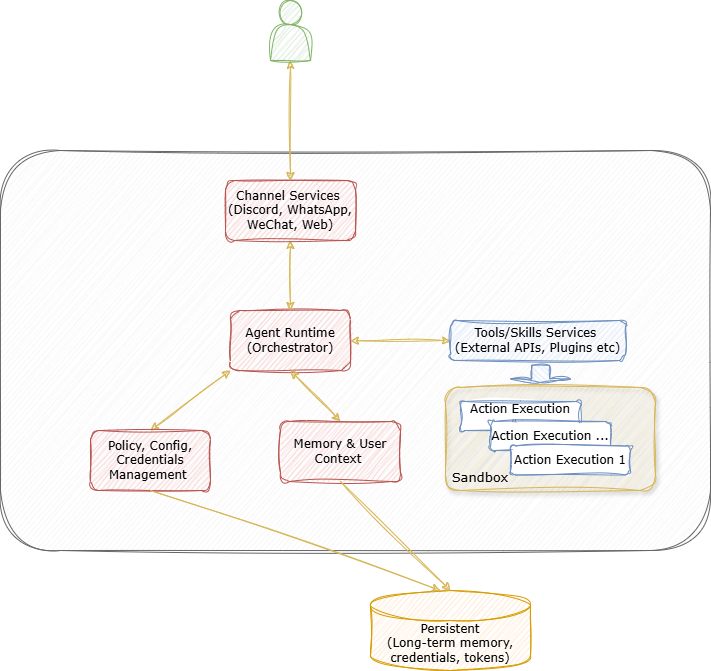
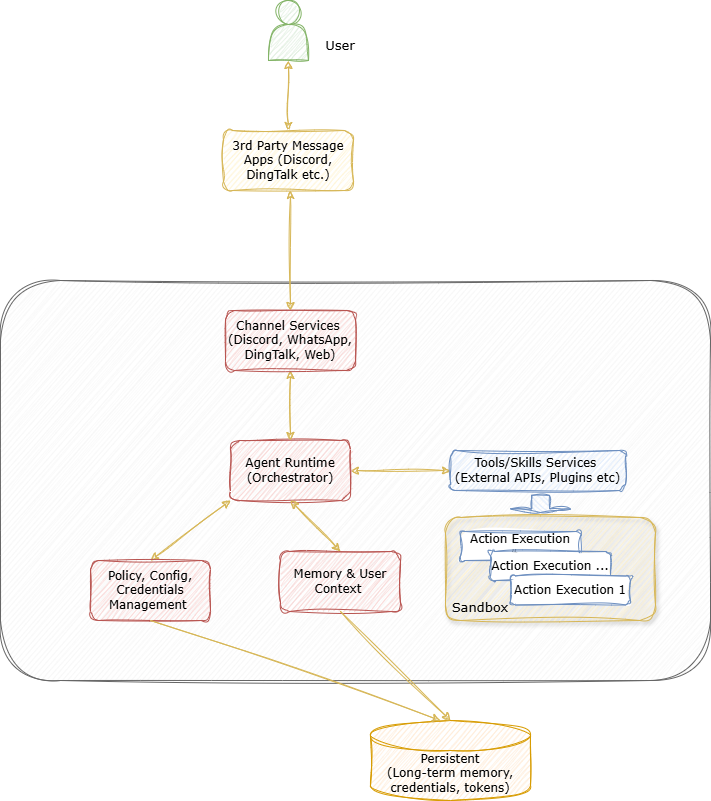
Update diagram and readme
Update diagram and readme

diff --git a/cczoo/openclaw-cc/README_CN.md b/cczoo/openclaw-cc/README_CN.md
@@ -2,83 +2,84 @@
   <a href="./README.md">English</a>
 </div>
 
-# OpenClaw-CC 机密计算部署演示方案
+# OpenClaw-CC 机密计算部署演示方案 （rev-0.6）
 
 云端部署的AI智能体(Agent)与传统的"一次性"AI 工作负载存在本质差异：它们需要持续运行，接入多种用户交互通道（如 Discord、WhatsApp、微信或 Web 应用），动态调用各类工具或技能，并需要维护用户上下文、长期记忆以及知识库，包括敏感的用户私有数据，如访问各种服务或账号所需的用户令牌或证书凭证。这种运行模式不仅大幅拓宽了攻击面，也使高价值数据在智能体的运行时（即数据使用阶段）长期存在于内存、缓存甚至是磁盘中，显著增加了潜在泄露风险。
 
 机密计算在这种场景下价值凸显：它能够在硬件层面构建强隔离环境保护运行时数据，使其免受来自宿主操作系统、虚拟机管理程序及云服务管理员等基础设施层的威胁。通过在硬件隔离的可信执行环境（TEE）中运行智能体的各个关键组件，敏感数据得以与宿主环境实现物理隔离，从而显著增强整体安全性。
 
-本文档以OpenClaw为例介绍典型的AI智能体的架构与数据安全威胁模型，阐明以Intel TDX为代表的机密虚拟化能力如何有效缓解数据安全风险，并提供针对智能体使用场景的数据安全和隐私保护方案。虽然本示例基于开源AI智能体框架OpenClaw，该框架负责协调用户、语言模型、工具调用及长期记忆之间的交互，但本文所述的数据安全原则以及保护方案同样适用于其他具有类似架构特征的智能体框架。
+本案例以 OpenClaw 为例，介绍典型 AI 智能体的架构及其面临的数据安全威胁模型，阐明以 Intel TDX 为代表的机密虚拟化技术如何通过运行时隔离与加密保护，有效降低数据泄露与越权访问等安全风险，并进一步提出面向智能体应用场景的数据安全与隐私保护方案。尽管本示例基于开源 AI 智能体框架 OpenClaw（该框架负责协调用户、语言模型、工具调用与长期记忆之间的交互），但本文所总结的数据安全原则与防护思路同样适用于其他具有类似架构特征的智能体框架。 
 
-## 1. OpenClaw概述及数据安全威胁模型
+## 1. OpenClaw及数据安全
 
 
 OpenClaw 是一款个人 AI 助手，既可以本地运行，也可以部署在云端。实际上，当今主流的智能体通常选择云端部署，以提供全天候24×7的服务可用性，并实现与各种基于互联网的服务（如 WhatsApp、Discord、微信和 Web API）的无缝集成。作为一个自主智能体，OpenClaw 通过监控集成的消息通道来实时接收用户请求，协调大语言模型进行推理与任务规划，并调用各类工具和服务完成需要的任务，从而实现用户与下游系统之间的智能连接。
 
-### 1.1 架构和数据流
+### 1.1 OpenClaw架构和数据流
 
 ![OpenClaw Architecture](./images/openclaw-arch.png)
 
 1. 用户通过配置好的消息服务与OpenClaw交互，服务将消息转发给OpenClaw网关运行时，即协调器(Orchestrator)。
 
-2. 协调器负责维护会话状态、检查并应用相应的控制和安全策略，协调调用大模型服务进行推理。必要时，它会从长短记忆(Memory)服务中检索和更新长期上下文，随后基于配置的策略或者是访问证书令牌来调用内部或者外部工具技能服务。
+2. 协调器负责维护会话状态、检查并应用相应的控制和安全策略，协调调用大模型服务进行推理。必要时，它将与长短期记忆(Memory)服务交互，以检索和更新上下文，并在此基础上根据配置策略或者是访问令牌来调用内部或外部工具或者技能服务。
 
 3. 用户交互过程的上下文和对话历史也可以持久化存储为长期记忆，从而实现跨会话的连续性和个性化体验。
 
-在 OpenClaw 工作流中，智能体运行时会持续处理并保留敏感上下文信息，包括用户会话历史、决策信息、企业文档、检索到的知识片段以及外部系统返回的数据。这些长期存在的上下文知识和数据资产会在后续工作流中被反复使用，因此，一旦智能体运行时遭受攻击被突破，其信息泄露的影响远超传统的单次请求式 AI 服务。同时，可插拔（pluggable）的服务架构使敏感用户交互数据、上下文知识以及模型权重也成为高价值攻击目标。尤其在云环境中，多租户部署模式进一步扩大了风险：云端智能体会面临来自高权限云基础软件层的威胁，还可能受到平台访问策略配置不当的影响，同时长期保留的各类数据（如记忆转储、日志文件、配置文件、运维脚本及备份）也大大增加了潜在的数据安全风险。
+在 OpenClaw 工作流中，智能体运行时会持续处理并保留上下文信息，包括用户会话历史、决策信息、企业文档、检索到的知识片段以及外部系统返回的数据，这些内容可能会涉及企业的商业机密或者用户的隐私信息。由于这些跨事务存在的上下文知识与数据资产会在后续工作流中被反复调用与引用，一旦智能体运行时遭受攻击并被突破，其潜在的信息泄露影响将显著高于传统的单次请求式 AI 服务。同时，可插拔（pluggable）的服务架构使敏感用户交互数据、上下文知识以及模型权重也成为高价值攻击目标。尤其在云环境中，多租户部署模式进一步扩大了风险：云端智能体会面临来自高权限云基础软件层的威胁，还可能受到平台访问策略配置不当的影响，同时长期保留的各类数据（如记忆转储、日志文件、配置文件、运维脚本及备份）也大大增加了潜在的数据安全风险。
 
-随着 OpenClaw 及类似的智能体框架向云端迁移，基于传统虚拟化基础设施的部署模式大大放大了智能体运行时数据泄露的风险，导致暴露用户会话上下文中敏感数据和状态。即使传输过程使用TLS，存储过程使用加密机制，但是来自更高权限的宿主操作系统或虚拟机管理程序级别的攻击者仍可能访问智能体运行时的内存数据，从而获取会话信息、推理决策过程的中间状态和访问各种服务API凭证信息。动态工具或服务调用的机制进一步加剧风险，因为工作流中服务或工具可以进一步被诱导或者控制其路径来执行未经授权的有害操作。
+同时，智能体采用的可插拔（pluggable）服务架构在提升灵活性与扩展性的同时，也显著扩大了系统的攻击面。智能体在运行过程中需要在模型推理、记忆管理与工具调用之间持续传递上下文信息，使得敏感的用户交互数据、长期知识资产以及访问凭证可能在多个模块与插件之间共享与流转。由于插件与外部服务调用组件通常来自不同的组织，缺乏统一的软件信任链条，使得智能体的信任边界复杂且分散。一旦某个工具接口或集成组件存在漏洞，攻击者可能借此侵入智能体运行时环境，并进一步获取或滥用智能体在处理过程中所管理的高价值数据资产，从而带来严重的数据安全风险。
 
-传统的沙箱机制(Sandbox)，无论是轻量级容器隔离或还是虚拟机隔离，都主要用于缓解进程间或租户之间的威胁。在复杂的云环境中，这类有限的隔离手段对突破平台防护、获得特权的攻击者（如被突破的虚拟机管理程序或云运营环境）提供的防护非常有限，无法有效保证今天各种AI智能体运行时及其敏感数据在整个生命周期内的安全需求。
+随着 OpenClaw 及类似的智能体应用向云端迁移，基于传统虚拟化基础设施的部署模式显著放大了智能体运行时数据泄露的风险，增加了用户会话上下文中敏感数据和状态被暴露的可能性。即使传输过程使用TLS，存储过程使用加密机制，攻击者仍然能够通过高权限宿主操作系统或虚拟机管理程序来非法访问智能体运行时内存，从而获取会话信息、推理过程的中间状态及各类服务和工具访问凭证信息；动态工具或服务调用的机制进一步加剧风险，工作流中服务或工具可能被诱导或者控制其代码路径，执行未经授权的有害操作。
 
-要为AI智能体提供有效的数据与安全保护，必须覆盖整个推理—记忆—检索—执行管道。其中，运行时数据（data-in-use）的机密性仍然是云化部署场景下最关键的挑战。智能体的长期记忆与持续学习能力赋予了机器系统持续知识积累和自我进化的能力，也显著增加了数据治理、所有权管理及安全删除的难度，尤其在当前广泛缺乏强运行时隔离的多租户环境中尤为突出。实现可信安全的智能体执行，需要依靠硬件强隔离、远程证明以及全生命周期的数据管理等多种能力，以弥补传统沙箱式的运行时场景下的安全空白。
+传统的沙箱机制(Sandbox)，无论是轻量级容器隔离或还是虚拟机隔离，都主要用于缓解进程间或租户之间的威胁。在复杂的云环境中，这类有限的隔离手段对突破平台防护、获得特权的攻击者（如被突破的虚拟机管理程序或云运营环境）提供的防护非常有限，无法有效满足当今AI智能体运行时及其敏感数据在整个生命周期内的安全需求。
 
-### 1.2 Threat areas
+要为AI智能体提供有效的数据与安全保护，必须覆盖整个推理—记忆—检索—执行管道。其中，运行时数据（data-in-use）的机密性仍然是云化部署场景下最关键的挑战。智能体的长期记忆与持续学习能力赋予了系统持续知识积累和自我进化的能力，但也显著增加了数据治理、所有权及生命周期管理的难度，尤其在当前广泛缺乏强运行时隔离的多租户环境中尤为突出。实现可信安全的智能体执行，需要综合利用基于硬件强隔离、内存加密、远程证明以及全生命周期的数据管理等多种能力，以弥补传统沙箱机制在运行时数据机密性与完整性保护上的不足。
 
-- **运行时上下文（Data-in-use）**：具有特权权限的基础设施访问风险（内存嗅探/调试）、Prompt 或工具注入，以及多租户/会话间数据泄露。
+### 1.2 数据安全威胁
 
-- **长期记忆（Data-at-rest）**：记忆存储可能成为高价值数据湖；生产数据被用于离线评估、Prompt 调优或训练，增加了暴露风险，并使数据使用的合规和授权更加复杂。
+- **运行时上下文（Data-in-use）**：面临高权限基础设施访问风险（如内存嗅探或调试）、Prompt 或工具注入，以及多租户或会话间的敏感数据泄露。运行时数据的持续使用增加了泄露或篡改的可能性，对数据机密性和完整性提出了更高要求。
 
-- **密钥与权限**：各种服务访问凭证的泄露风险（API 密钥、OAuth 令牌、Cookies），以及插件或供应链风险可能引入新的数据外泄路径。
+- **长期记忆（Data-at-rest）**：记忆存储可能成为高价值数据湖；生产数据被用于评估、Prompt 调优或持续训练，增加了暴露风险，并使数据使用的合规使用和授权管理的流程更加复杂。
 
-- **云特有威胁面**：元数据/控制平面暴露风险，来自于传统共享式云基础设施风险（内存、I/O、存储与网络），以及主机操作系统或虚拟机控制器层面的攻击。
+- **密钥与权限 (Data-in-use)**：AI智能体在调用内部或外部服务时依赖各类访问凭证（如 API 密钥、OAuth 令牌、Cookies），这些凭证一旦泄露或被滥用，造成跨服务的数据访问风险。
+
+- **软件和服务供应链 (Integrity)**：复杂的插件和服务供应链生态可能引入新的攻击面。第三方插件、工具库或外部服务在未经严格审查或安全验证的情况下接入智能体系统，可能成为数据外泄或权限滥用的潜在通道。
 
 ## 2. 机密计算的应用以及数据安全增强
 
-### 2.1 机密计算
+### 2.1 Intel TDX（可信域扩展技术）与智能体的数据安全
 
-智能体风险集中在数据在使用中：运行时上下文、工具调用参数/结果、中间状态、记忆检索输出以及凭证在编排过程中短暂以明文形式出现。机密计算（可信执行环境，TEE）将敏感执行和数据置于硬件强制隔离内，即使是云管理员、宿主操作系统和虚拟机管理程序也无法直接读取隔离区内的明文。
+智能体在云端运行时的数据安全风险主要集中在数据使用阶段（Data-in-use），包括运行时上下文、工具调用参数与结果、推理决策的中间状态、持续长记忆，以及各种访问凭证在工作流编排过程中的反复访问。为应对这些风险，Intel TDX 提供了一整套机密计算能力，将智能体的敏感执行和数据处理置于硬件强制隔离的可信执行环境中。通过硬件级隔离，即便宿主操作系统或虚拟机管理程序遭到入侵，也无法直接访问隔离区内的明文数据；内存加密机制确保用户数据在多租户环境下始终保持密态隔离，即便内存被整个导出，也能保障数据的机密性。
 
-通过远程证明，上游服务（例如消息通道和密钥管理系统）可以在释放敏感数据（如会话密钥或数据访问令牌）之前验证工作负载运行环境的身份和策略以及相应的指纹信息。
+结合 TDX 的远程证明机制，上下游服务组件（如消息通道、密钥管理系统或外部 API 提供方）在释放敏感数据（如会话密钥或访问令牌）之前，可验证智能体工作负载的运行环境、执行策略及指纹信息，确保数据仅在受信的软硬件执行环境中被访问和使用。此外，TDX 提供的动态度量能力，使智能体中插件式的工具和服务执行组件能够进行动态加载时的完整性检查与细粒度控制，确保所有组件在执行过程中遵循安全策略。
+
+通过硬件隔离、内存加密、远程证明和动态度量的组合，Intel TDX 为复杂、多插件的智能体工作流提供了可扩展、全生命周期的硬件保障，使敏感数据在运行时、传输和存储过程中均受到严格保护，实现对智能体云端运行时数据安全的全面可信保障。
 
 ### 2.2 OpenClaw 机密计算部署方案 (OpenClaw-CC)
 
-为缓解多租户云环境中来自特权级别的基础设施的威胁，OpenClaw 运行时可以部署在硬件隔离的可信执行环境（TEE）中，例如基于TDX的机密虚拟机（TDVM）。这确保了即便是宿主操作系统、虚拟机管理程序被安全突破甚至是云服务运维的账号泄露引起的攻击，也无法直接访问智能体运行时内存中的用户明文信息。通过将编排逻辑、策略执行和内存处理隔离在可信执行环境中，OpenClaw-CC 在整个推理—检索—执行管道中实现了强数据机密性的保障能力，弥补了传统虚拟机或容器隔离留下的安全空白。
+为缓解多租户云环境中来自特权级别的基础设施的威胁，OpenClaw 运行时可以部署在硬件隔离的可信执行环境（TEE）中，如基于TDX的机密虚拟机（TDVM）。确保了即便宿主机操作系统或虚拟机管理程序被突破，甚至因运维账号泄露引发攻击，也无法直接访问智能体运行时内存中的用户数据。通过将智能体运行时的编排逻辑、策略执行和上下文处理全部隔离在可信执行环境中，OpenClaw-CC 能在整个推理—检索—执行管道中实现强数据机密性保护，有效弥补了传统虚拟机或容器隔离在运行时数据安全方面的不足。
 
-![OpenClaw-CC Architecture](./images/openclaw-cc.png)
+
+![OpenClaw-CC Architecture](./images/openclaw-cc-cn.png)
 
 此外，OpenClaw-CC 可利用远程证明（Remote Attestation）的机制，在释放敏感数据访问之前对运行时的身份和策略进行验证，构建实时的信任关系。各种上游的服务组件，例如消息服务、模型服务以及密钥/令牌代理管理服务，也可以在动态验证OpenClaw-CC运行时是否在可信执行环境中运行，并且确保度量信息符合安全预期。
 
-持久化存储的信息则通过静态加密（例如基于 LUKS 的加密磁盘）进行保护，且加密密钥由机密虚拟机内部管理，同时在用户数据盘挂载时通过远程证明机制来验证存储系统的安全和完整。
+持久化存储的用户记忆和上下文状态则通过静态加密（例如基于 LUKS 的加密磁盘）进行落盘保护，且加密密钥由机密虚拟机内部管理，同时在用户数据盘挂载时通过远程证明机制来验证存储系统的安全和完整。
 
-结合基于 TDX 的可信执行环境隔离技术、远程证明机制以及加密的数据持久化能力，OpenClaw-CC 构建了端到端的机密计算架构，有效防止运行时数据泄露，并显著增强了系统抵御特权面的攻击的能力。
+综合利用 Intel TDX 提供的可信执行环境(TEE)、内存加密、远程证明机制等能力，OpenClaw-CC 构建了端到端的机密计算架构，有效防止运行时数据泄露的风险，并显著增强了系统在各层面抵御针对数据的攻击能力。
 
-### 2.3 Mitigations
+### 2.3 数据安全应对措施
 
-这一小节重点说明了基于 Intel TDX 的 TEE 如何在数据处理过程中降低AI智能体运行过程来自数据面的威胁风险。
+这一小节重点说明了基于 Intel TDX 如何在数据处理过程中降低AI智能体运行过程来自数据面的威胁风险。
 
-| 风险领域                           | 问题示例                 | Intel TDX 优势                       |
-| ------------------------------ | -------------------- | ---------------------------------- |
-| 运行时（Runtime）                   | 内存检查、运行时数据泄露         | 在 TEE 内运行核心进程；内存数据保持加密；对运行时完整性进行证明 |
-| 长期记忆（Long-term memory）         | 备份中残留数据；数据恢复时可能暴露    | 对内存加密；仅在 TEE 内解密；验证运行时完整性          |
-| 密钥与权限（Secrets & permissions）   | API 密钥/令牌/Cookie 被窃取 | 密钥仅在 TEE 内使用；通过远程证明控制密钥下发          |
-| Prompt/工具误用                    | 意外调用工具或返回不安全结果       | 通过 TEE 保护敏感中间数据，防止宿主访问             |
-| 插件与供应链（Plugins & supply chain） | 恶意或存在漏洞的扩展           | 验证运行时及插件完整性                        |
+| 风险领域                                      | 问题示例                        | Intel TDX 优势                                            |
+| ----------------------------------------- | --------------------------- | ------------------------------------------------------- |
+| **运行时**            | 内存检查、运行时上下文或中间状态泄露          | 核心进程和服务在基于 TDX 的可信执行环境（TEE）中运行；内存数据始终加密；支持运行时完整性验证与动态度量 |
+| **长期记忆** | 长期记忆数据及用户上下文落盘或传输时可能泄露      | 数据在存储和传输过程中加密，仅在 TEE 内解密使用；结合远程证明管理敏感数据访问               |
+| **密钥与权限**          | API 密钥、OAuth 令牌或 Cookie 被窃取 | 密钥和凭证仅在 TEE 内使用；通过远程证明机制控制密钥下发，确保仅在可信环境中访问              |
+| **插件式工具与服务供应链**   | 恶意或存在漏洞的插件、扩展或第三方服务         | 动态验证运行时及插件完整性；结合远程证明和动态度量降低供应链风险                   |
 
-
-
-基于 Intel TDX 的 TEE 能显著降低运行时数据在特权基础设施下的暴露风险。除了数据在用保护之外，辅助性的工程措施仍然非常重要，例如最小权限控制、工具/策略白名单等，但这些内容超出本文讨论范围。
-
+尽管 Intel TDX 构建的可信执行环境（TEE）能够显著降低智能体运行时数据的泄露风险，但是传统的安全防护措施仍然不可或缺，例如最小权限控制、工具和策略白名单等，这些措施的具体实施超出了本文的讨论范围。
 
 ## 3. OpenClaw-CC 方案部署
 
@@ -263,7 +264,7 @@ curl -k -X POST http://<machine_ip>:8080/attestation \
 
 ## 4. 结论和未来工作
 
-OpenClaw-CC 展示了一种稳健的机密计算方案，通过基于 TDX 的 TEE 与远程证明技术，降低了在多租户基础设施上部署 OpenClaw 时的风险。借助这些技术，OpenClaw-CC 在整个架构中增强了数据保护能力，从运行时上下文到长期记忆管理都得以覆盖。该演示方案展示了这些原理的实际应用，为希望采纳机密计算实践的组织或个人提供了有价值的参考。
+OpenClaw-CC 展示了如何通过基于 Intel TDX 的可信执行环境和远程证明机制，降低在多租户基础设施上部署智能体时的安全风险。借助这些技术，OpenClaw-CC 在整个架构中增强了数据保护能力，实现了从运行时上下文到长期记忆管理的全方位覆盖，为希望采用机密计算部署智能体的组织或个人提供了重要参考。
 
-值得注意的是，该演示仍处于早期原型阶段，主要用于探索机密计算技术在应对 OpenClaw 等智能体工作负载关键数据泄露问题上的可行性。未来工作将重点拓展对基于 Docker 的 TEE 部署支持，集成可信的构建-部署流程，并进一步强化服务执行环境。社区的反馈与贡献将有助于持续完善这一方案。
+值得一提的是，该演示方案仍处于原型阶段（rev-0.6），主要用于探索机密计算技术在应对 OpenClaw 等复杂智能体工作负载下的数据泄露问题上的可行性。在后续版本将进一步拓展对基于容器化部署的支持，完善可信构建与部署流程，并强化动态服务的隔离与保护。社区的反馈与贡献将为持续优化提供重要支持。
 
